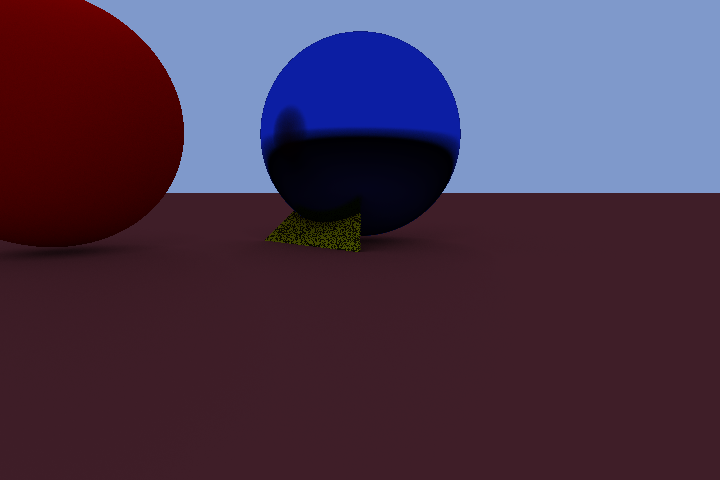
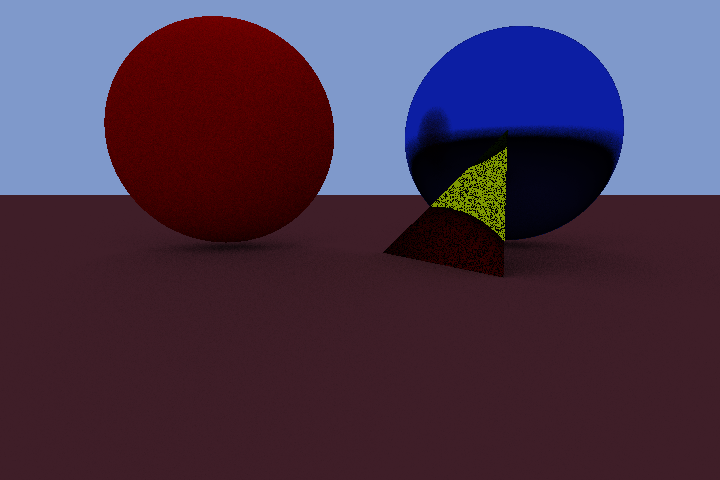
make camera better

diff --git a/src/main.cpp b/src/main.cpp
@@ -3,6 +3,7 @@
 #include <stdlib.h>
 #include <limits.h>
 #include <iostream>
+#include <SFML/Graphics.hpp>
 
 #include "world.hpp"
 #include "ray_trace.hpp"
@@ -32,7 +33,7 @@ void setup_world(World *world) {
 		Material {
 			.color = { 1.0f, 1.0f, 0.0f },
 			.emissive = {},
-			.specular = 0.0f
+			.specular = 1.0f
 		},
 	};
 
@@ -58,9 +59,9 @@ void setup_world(World *world) {
 	};
 
 	world->triangle_vertices = {
-		{ 2, 0, 0 },
-		{ 0, 2, 0 },
-		{ 0, 0, 2 },
+		{ 2, 2, 0 },
+		{ 0, 4, 0 },
+		{ 0, 2, 2 },
 	};
 
 	world->triangle_indices = { 0, 1, 2 };
@@ -83,64 +84,71 @@ Color vec_to_color(vec3 v) {
 
 struct Camera {
 	vec3 pos;
-	vec3 look_at;
-	vec3 dir;
-	vec3 up;
-	vec3 right;
+	vec3 center;
+	vec3 vertical;
+	vec3 horizontal;
 
-	void update() {
-		dir = norm(pos - look_at);
+	void create(float width, float height, vec3 _pos, vec3 look_at, float lense_distance) {
+		pos = _pos;
+		vec3 dir = norm(pos - look_at);
 		vec3 _up = { 0, 0, 1 };
-		right = cross(_up, dir);
-		up = cross(dir, right);
+		vec3 right = cross(_up, dir);
+		vec3 up = cross(dir, right);
+
+		center = pos - lense_distance * dir;
+		vertical   = 0.5 * up;
+		horizontal = 0.5 * (width / height) * right;
+	}
+
+	Ray get_ray(float u, float v) {
+		Ray rey;
+		rey.origin = pos;
+		rey.dir = norm(center + u * horizontal + v * vertical - pos);
+		return rey;
 	}
 };
+
+void render_pass(std::vector<vec3>& img, Camera& camera, World *world, s32 image_width, s32 image_height, int prev) {
+	float max_color = {};
+    for (int32_t y = 0; y < image_height; ++y) {
+        float v = ((float) y / (float) image_height) * -2.0f + 1.0f;       // [-1; 1]
+        for (int32_t x = 0; x < image_width; ++x) {
+            float u = (((float) x / (float) image_width) * 2.0f - 1.0f);   // [-1; 1]
+
+			Ray ray = camera.get_ray(u, v);
+
+			vec3 color = ray_color(world, ray, 50, 3, prev, img[y * image_width + x]);
+
+			img[y * image_width + x] = color;
+        }
+    }
+}
 
 int main() {
 	World world;
 	setup_world(&world);
 
+	srand(time(NULL));
 	seed(rand());
 
 	s32 image_width  = 720;
 	s32 image_height = 480;
 
+	std::vector<vec3> img;
+	img.resize(image_width * image_height, {});
+
 	Camera camera;
-	camera.pos     = { 0, 10, 1 };
-	camera.look_at = { 0, 0, 0 };
-	camera.update();
+	camera.create(image_width, image_height, { 0, 10, 1}, { 3, 0, 0 }, 1);
 
-	float film_distance = 1.0;
-    vec3 film_center = camera.pos - film_distance * camera.dir;
+	render_pass(img, camera, &world, image_width, image_height, 0);
 
-    float film_width  = 1.0f * float(image_width) / float(image_height);
-    float film_height = 1.0f;
+	std::vector<Color> buffer;
+	buffer.resize(image_width * image_height);
+	for (int i = 0; i < img.size(); ++i) {
+		buffer[i] = vec_to_color(clamp(img[i], vec3(0,0,0), vec3(1,1,1)));
+	}
 
-    float half_film_width  = film_width * 0.5f;
-    float half_film_height = film_height * 0.5f;
-
-	std::vector<Color> img;
-	img.resize(image_width * image_height);
-
-	float max_color = {};
-    for (int32_t y = 0; y < image_height; ++y) {
-        float film_y = ((float) y / (float) image_height) * -2.0f + 1.0f;       // [-1; 1]
-        for (int32_t x = 0; x < image_width; ++x) {
-            float film_x = (((float) x / (float) image_width) * 2.0f - 1.0f);   // [-1; 1]
-
-			vec3 film_position = film_center + film_x * half_film_width * camera.right + film_y * half_film_height * camera.up;
-
-			Ray ray = {};
-			ray.origin = camera.pos;
-			ray.dir = norm(film_position - camera.pos);
-
-			vec3 color = ray_color(&world, ray, 1000, 5);
-
-			img[y * image_width + x] = vec_to_color(clamp(color, vec3(0,0,0), vec3(1,1,1)));
-        }
-    }
-
-	stbi_write_png("test.png", image_width, image_height, sizeof(Color), img.data(), image_width * sizeof(Color));
+	stbi_write_png("test.png", image_width, image_height, sizeof(Color), buffer.data(), image_width * sizeof(Color));
 
 	return 0;
 }

diff --git a/src/ray_trace.cpp b/src/ray_trace.cpp
@@ -1,6 +1,28 @@
 #include "ray_trace.hpp"
 
 
+u32 state;
+inline u32 xor_shift_32() {
+	u32 x = state;
+	x ^= x << 13;
+	x ^= x >> 17;
+	x ^= x << 5;
+	state = x;
+	return x;
+}
+
+vec3 rand_vec() {
+	vec3 res;
+	res.x = -1.0f + float(xor_shift_32() % 1000) / 500.0f;
+	res.y = -1.0f + float(xor_shift_32() % 1000) / 500.0f;
+	res.z = -1.0f + float(xor_shift_32() % 1000) / 500.0f;
+	return res;
+}
+
+void seed(int k) {
+    state = k;
+}
+
 const float tolerance = 0.001;
 
 float intersect_plane(Ray ray, Plane plane) {
@@ -78,24 +100,6 @@ float intersect_triangle(Ray ray, vec3 v0, vec3 v1, vec3 v2, vec3& N) {
 	}
  
     return t;
-}
-
-u32 state;
-inline u32 xor_shift_32() {
-	u32 x = state;
-	x ^= x << 13;
-	x ^= x >> 17;
-	x ^= x << 5;
-	state = x;
-	return x;
-}
-
-vec3 rand_vec() {
-	vec3 res;
-	res.x = -1.0f + float(xor_shift_32() % 1000) / 500.0f;
-	res.y = -1.0f + float(xor_shift_32() % 1000) / 500.0f;
-	res.z = -1.0f + float(xor_shift_32() % 1000) / 500.0f;
-	return res;
 }
 
 bool ray_cast(World *world, Ray ray, vec3& pos, vec3& normal, int& mat) {
@@ -176,16 +180,12 @@ vec3 ray_bounce(World *world, Ray ray, int bounce_count, bool first_bounce = tru
 	return world->materials[0].emissive;
 }
 
-vec3 ray_color(World *world, Ray ray, int sample_count, int bounce_count) {
-	vec3 res = {};
+vec3 ray_color(World *world, Ray ray, int sample_count, int bounce_count, int prev_count, vec3 prev_value) {
+	vec3 res = prev_value;
 
 	for (int sample = 0; sample < sample_count; ++sample) {
 		res += ray_bounce(world, ray, bounce_count);
 	}
 
-	return 1.0 / float(sample_count) * res;
-}
-
-void seed(int k) {
-    state = k;
+	return 1.0 / float(sample_count+prev_count) * res;
 }

diff --git a/src/ray_trace.hpp b/src/ray_trace.hpp
@@ -8,4 +8,5 @@ struct Ray {
 };
 
 void seed(int);
-vec3 ray_color(World *world, Ray ray, int sample_count, int bounce_count);
+
+vec3 ray_color(World *world, Ray ray, int sample_count, int bounce_count, int prev_count=0, vec3 prev_value={});
